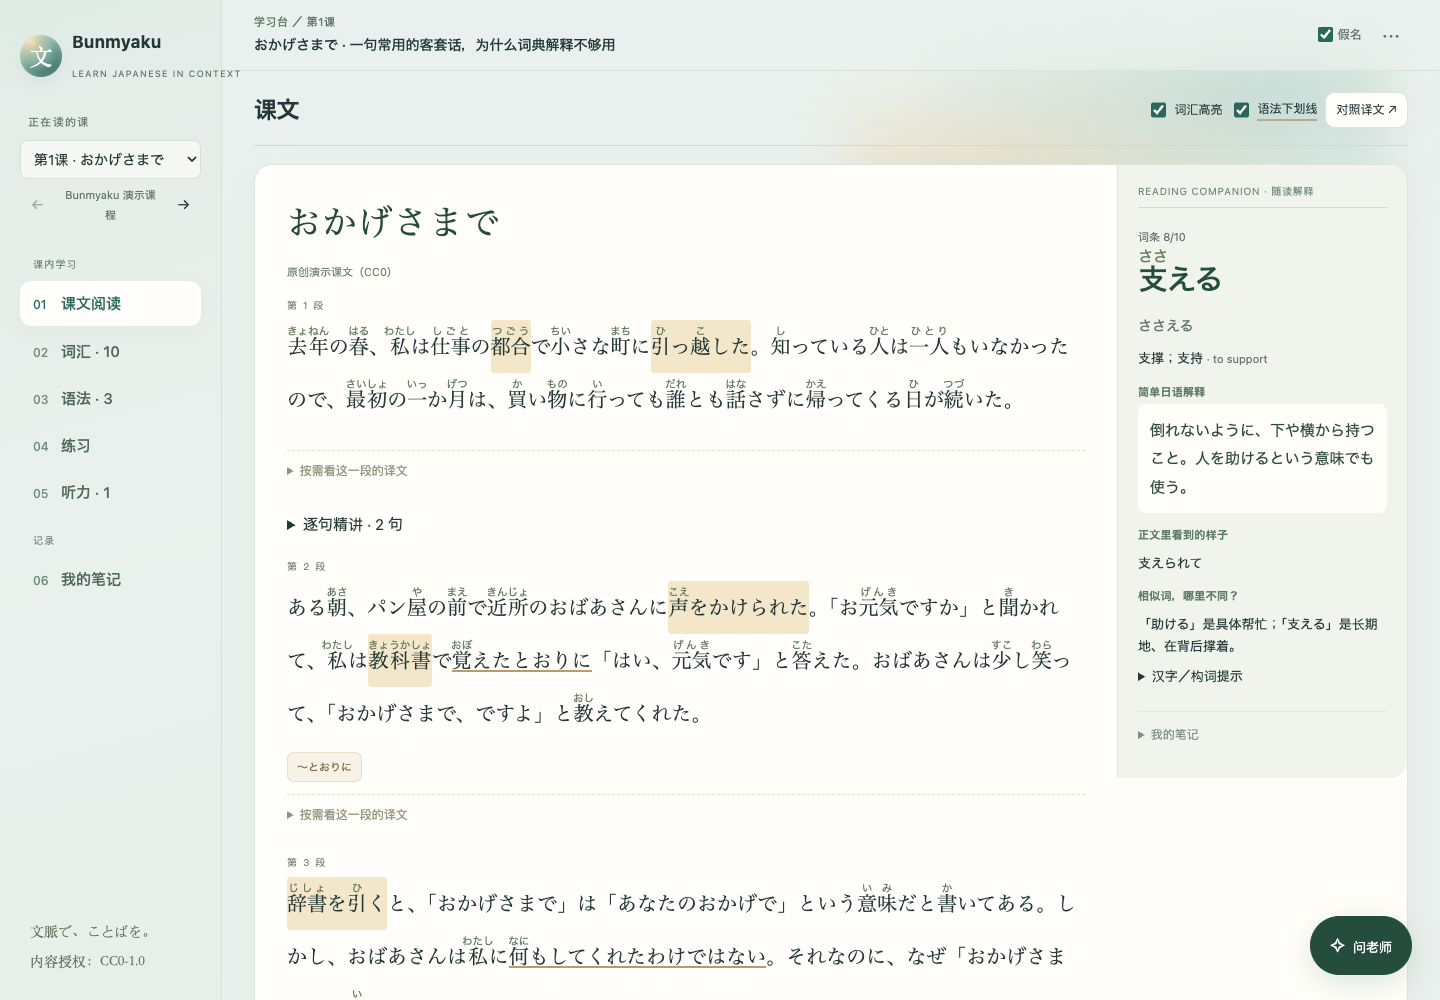
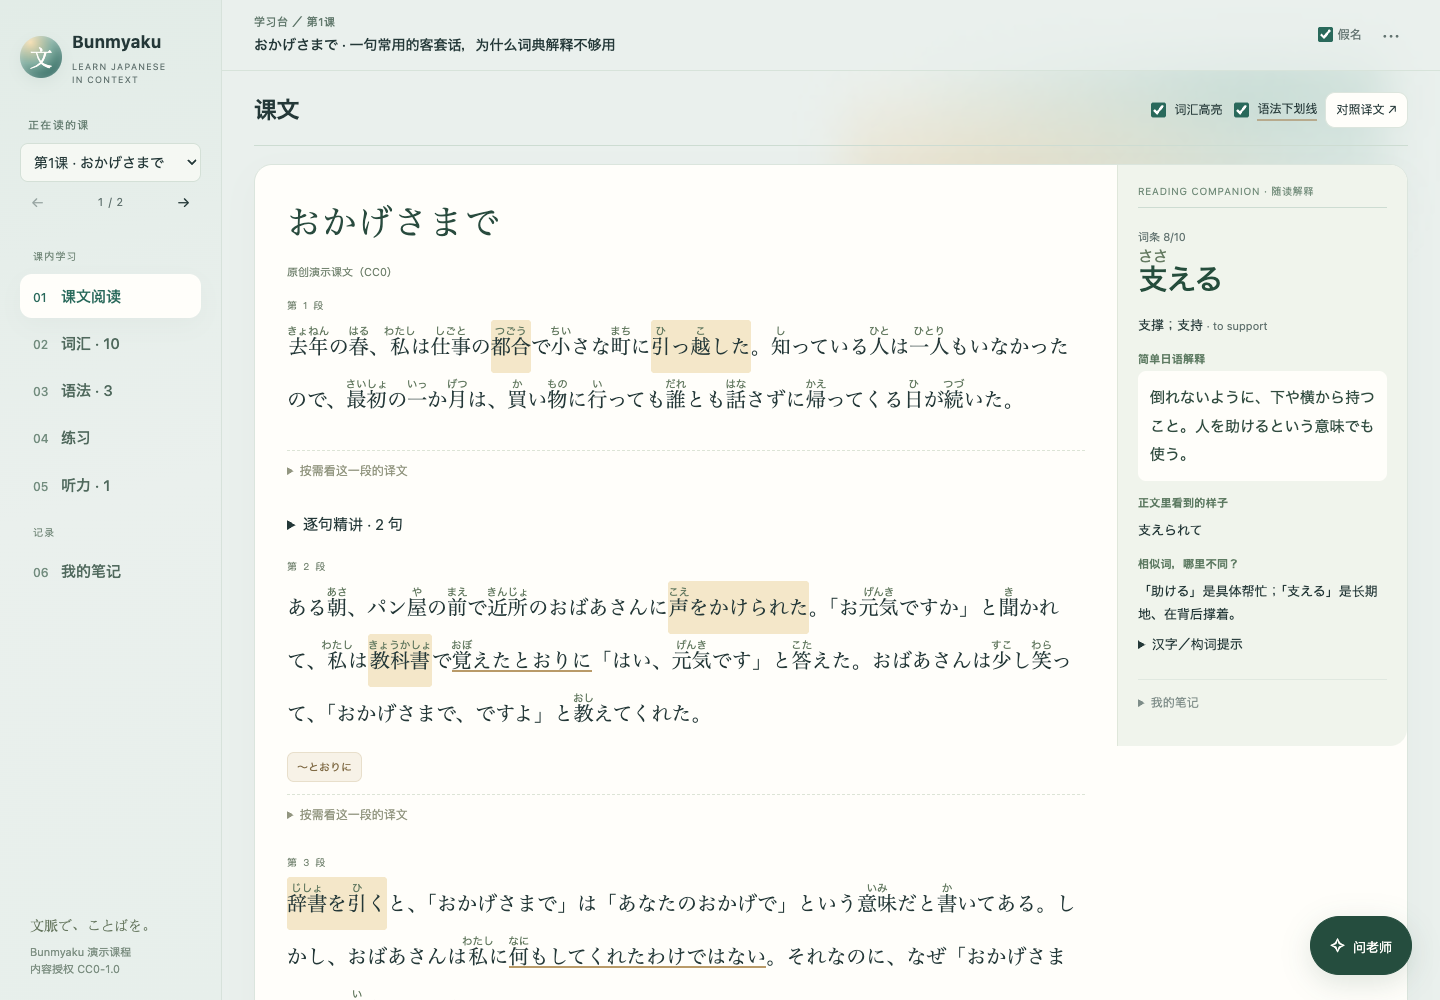
Polish sidebar, header menu, mobile tabs and ruby spacing

diff --git a/src/app.js b/src/app.js
@@ -564,6 +564,13 @@ $('export').onclick = () => {
 };
 $('print').onclick = () => window.print();
 
+// The header menu closes after an action, on Escape, and on a click elsewhere.
+const moreMenu = document.querySelector('.header-more');
+const closeMoreMenu = () => { if (moreMenu) moreMenu.open = false; };
+document.querySelectorAll('.more-menu > button').forEach(b => b.addEventListener('click', closeMoreMenu));
+document.addEventListener('click', e => { if (moreMenu?.open && !moreMenu.contains(e.target)) closeMoreMenu(); });
+document.addEventListener('keydown', e => { if (e.key === 'Escape' && moreMenu?.open) { closeMoreMenu(); moreMenu.querySelector('summary').focus(); } });
+
 // ------------------------------------------------------------------ tabs & lessons
 
 function showTab(name) {
@@ -593,6 +600,7 @@ function switchCourse(id) {
   $('tab-words').textContent = `词汇 · ${vocab().length}`; $('tab-grammar').textContent = `语法 · ${grammar().length}`;
   $('tab-listening').textContent = `听力${(L.listening || []).length ? ' · ' + L.listening.length : ''}`;
   $('prev-course').disabled = index === 0; $('next-course').disabled = index === LESSONS.length - 1;
+  $('course-position').textContent = `${index + 1} / ${LESSONS.length}`; $('course').title = $('course').selectedOptions[0]?.textContent || '';
   document.title = `${L.title} · Bunmyaku`;
   renderAll(); showTab('read');
   $('save-status').textContent = storageOK ? '本机独立保存' : '请导出备份';
@@ -601,7 +609,7 @@ $('course').innerHTML = LESSONS.map(l => `<option value="${esc(l.id)}">${l.numbe
 $('course').onchange = e => switchCourse(e.target.value);
 $('prev-course').onclick = () => { const i = LESSONS.indexOf(L); if (i > 0) switchCourse(LESSONS[i - 1].id); };
 $('next-course').onclick = () => { const i = LESSONS.indexOf(L); if (i < LESSONS.length - 1) switchCourse(LESSONS[i + 1].id); };
-$('pack-title').textContent = PACK.title || PACK_ID; $('pack-license').textContent = PACK.license ? `内容授权：${PACK.license}` : '';
+$('pack-title').textContent = PACK.title || PACK_ID; $('pack-license').textContent = PACK.license ? `内容授权 ${PACK.license}` : '';
 
 // ------------------------------------------------------------------ tutor
 

diff --git a/src/app.css b/src/app.css
@@ -33,3 +33,31 @@ rt.unverified,ruby.unverified rt{text-decoration:underline dotted #b48a3a;color:
 .tutor-open .word-grid,.tutor-open .grammar-grid{grid-template-columns:1fr}
 @media(max-width:1100px){.word-grid{grid-template-columns:repeat(2,minmax(0,1fr));gap:14px}}
 @media(max-width:650px){.word-grid,.grammar-grid{grid-template-columns:1fr;gap:12px}}
+/* Detail pass (1.0.1): sidebar brand and course bar, small-screen tabs, blanks, ruby, floating button clearance. */
+@media(min-width:1101px){
+  .brand>div{min-width:0}
+  .brand small{display:block;white-space:normal;text-wrap:balance;line-height:1.5;letter-spacing:.12em;margin-top:2px}
+}
+.coursebar .course-count{font-variant-numeric:tabular-nums;letter-spacing:.06em;white-space:nowrap}
+.coursebar select{text-overflow:ellipsis;white-space:nowrap;overflow:hidden}
+.sidebar-bottom small{display:block;font-size:11px;line-height:1.6;color:#7d8f82}
+.workspace header p{text-wrap:pretty}
+.passage-title,.section-bar h2,.grammarcard h3,.workcard h3{text-wrap:balance}
+ruby{ruby-align:center}
+.inline-blank{white-space:nowrap}
+.exercise-card details.notes{margin-bottom:0}
+#words .workcard>.locate{grid-column:2/-1;justify-self:end;text-align:right;padding-right:0}
+main{padding-bottom:120px}
+@media(max-width:650px){
+  main{padding-bottom:104px}
+  .sidebar .tabs{grid-template-columns:repeat(3,minmax(0,1fr))}
+}
+.workspace header p{word-break:keep-all;overflow-wrap:anywhere}
+.ex-question,.listen-line-ja p{text-wrap:pretty}
+/* The more-menu lives inside the header, so undo the header subtitle and summary styles it inherits. */
+.more-menu{width:220px}
+.more-menu button{white-space:nowrap}
+.workspace header .more-menu p{font-weight:400;font-size:11px;line-height:1.7;color:var(--muted);max-width:none;word-break:normal;text-wrap:pretty}
+.header-more .more-menu summary{list-style:revert;padding:4px 0;font-size:12px;color:var(--muted);min-height:0}
+.more-menu .course-context{margin:0 0 4px;padding:0}
+body:not(.hide-ruby) .detail h3:has(ruby)+.kana{display:none}

diff --git a/src/page.html b/src/page.html
@@ -14,7 +14,7 @@ Software. THE SOFTWARE IS PROVIDED "AS IS", WITHOUT WARRANTY OF ANY KIND. -->
 </head><body>
 <aside class="sidebar">
 <div class="brand"><span class="brand-mark">文</span><div><strong>Bunmyaku</strong><small>LEARN JAPANESE IN CONTEXT</small></div></div>
-<div class="coursebar"><label for="course">正在读的课</label><select id="course" aria-label="选择课"></select><button id="prev-course" aria-label="上一课">←</button><span class="course-count" id="pack-title"></span><button id="next-course" aria-label="下一课">→</button></div>
+<div class="coursebar"><label for="course">正在读的课</label><select id="course" aria-label="选择课"></select><button id="prev-course" aria-label="上一课">←</button><span class="course-count" id="course-position" aria-live="polite"></span><button id="next-course" aria-label="下一课">→</button></div>
 <nav class="tabs" role="tablist" aria-label="学习内容">
 <span class="nav-section" aria-hidden="true">课内学习</span>
 <button id="tab-read" role="tab" aria-controls="read" aria-selected="true" data-tab="read" data-index="01">课文阅读</button>
@@ -25,7 +25,7 @@ Software. THE SOFTWARE IS PROVIDED "AS IS", WITHOUT WARRANTY OF ANY KIND. -->
 <span class="nav-section" aria-hidden="true">记录</span>
 <button id="tab-notes" role="tab" aria-controls="notes" aria-selected="false" data-tab="notes" data-index="06">我的笔记</button>
 </nav>
-<div class="sidebar-bottom"><span>文脈で、ことばを。</span><span id="pack-license"></span></div>
+<div class="sidebar-bottom"><span>文脈で、ことばを。</span><small id="pack-title"></small><small id="pack-license"></small></div>
 </aside>
 <div class="workspace">
 <header><div><h1>学习台 <span id="course-heading"></span></h1><p id="course-subtitle"></p></div>

diff --git a/bunmyaku/__init__.py b/bunmyaku/__init__.py
@@ -1,3 +1,3 @@
 """Bunmyaku: learn Japanese in context from course packs. ``python3 -m bunmyaku`` starts the study desk."""
 
-__version__ = '1.0.0'
+__version__ = '1.0.1'

diff --git a/CHANGELOG.md b/CHANGELOG.md
@@ -1,5 +1,16 @@
 # Changelog
 
+## 1.0.1 · 2026-10-28
+
+界面细节整理，不改课程包格式和接口。
+
+- 侧栏：品牌副标题不再超出侧栏；左右箭头之间改为显示“第几课 / 共几课”，课程包名称与授权移到侧栏底部；课名过长时下拉框以省略号收尾，悬停可看全名。
+- 右上角菜单：选完一项、按 Esc 或点击别处会收起，不再挡住“对照译文”等按钮；菜单里的说明文字不再继承页头标题的加粗和窄宽度，“课程说明”恢复展开三角。
+- 手机：六个面板标签排成三列两行；页头标题按词断行；填空横线不再被拆到两行。
+- 注音：较长读音（如 住所）不再把汉字撑开；词条详情在显示注音时不重复列出读音。
+- 词汇卡“课文定位”对齐卡片右缘；练习卡底部多余留白去掉；正文底部留出悬浮“问老师”按钮的位置，最后一行不再被挡住。
+- README 截图按新界面重截。
+
 ## 1.0.0 · 2026-10-27
 
 第一个正式版本。
